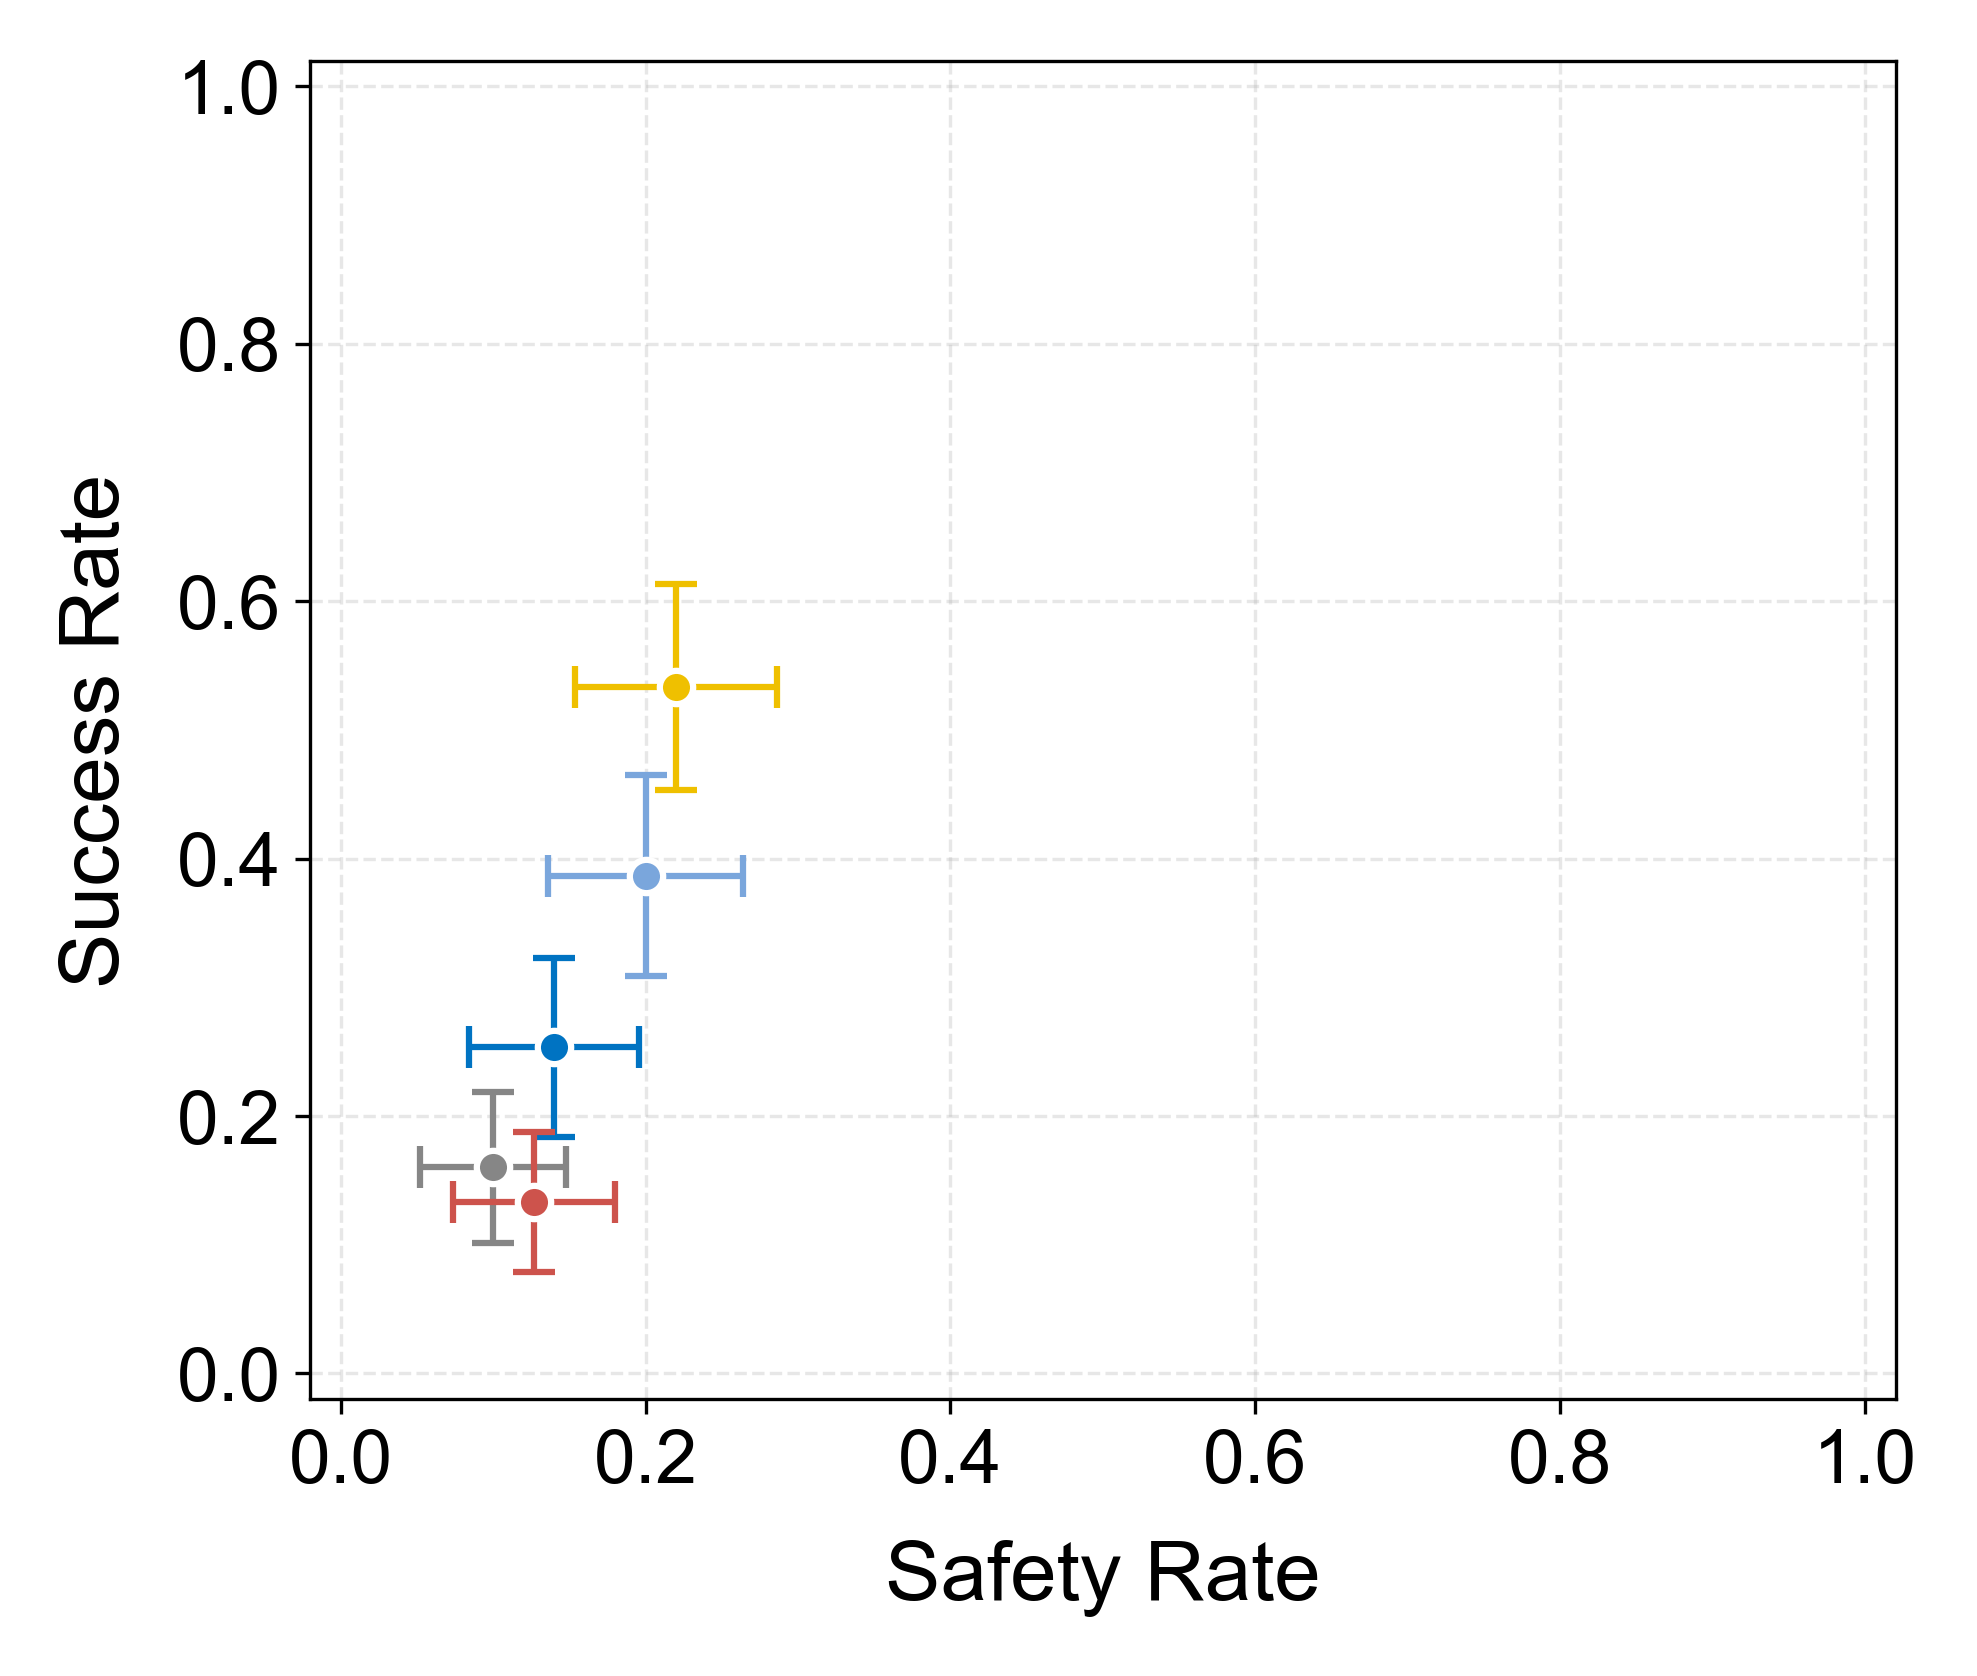
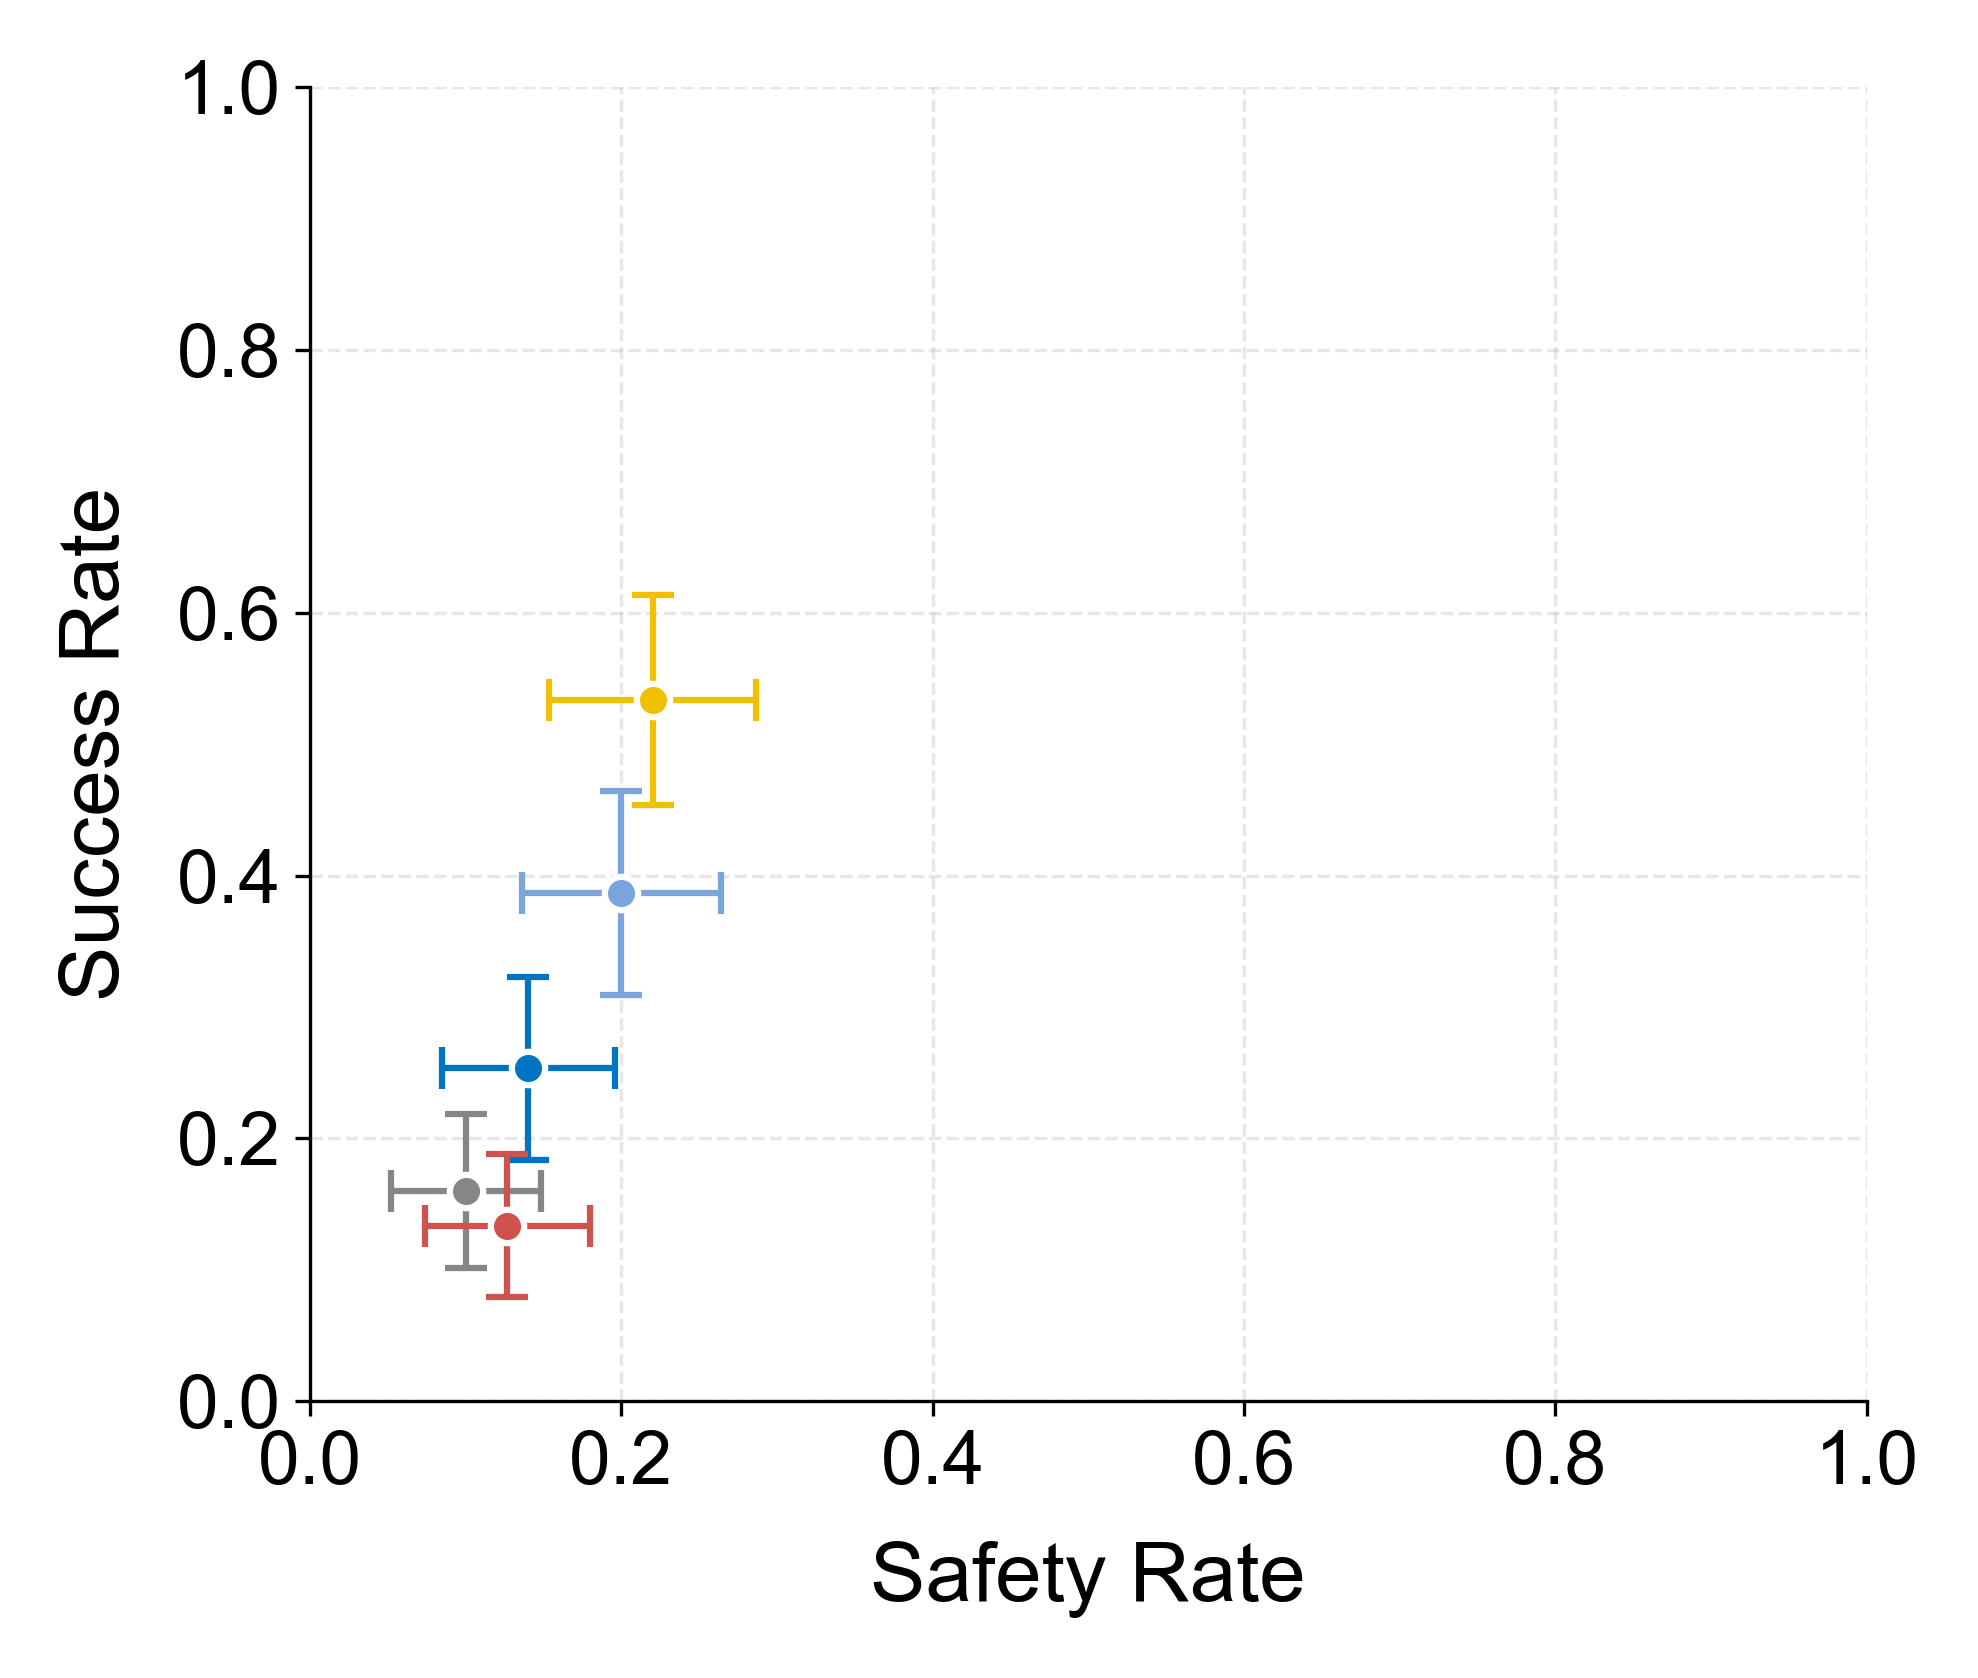
Summary plot: Remove the top and right spines.

diff --git a/routing_result_plotting/file_utils.py b/routing_result_plotting/file_utils.py
@@ -198,11 +198,15 @@ def plot_results(save_result_path, sample_num):
     #              pad=20)
 
     # Set axis ranges with padding
-    ax.set_xlim(-0.02, 1.02)
-    ax.set_ylim(-0.02, 1.02)
+    ax.set_xlim(-0.0, 1.00)
+    ax.set_ylim(-0.0, 1.00)
 
     # Customize ticks
     ax.tick_params(axis='both', which='major', labelsize=18)
+
+    # Remove top and right spines
+    ax.spines['top'].set_visible(False)
+    ax.spines['right'].set_visible(False)
 
     # Adjust layout to prevent label cutoff
     plt.tight_layout()
